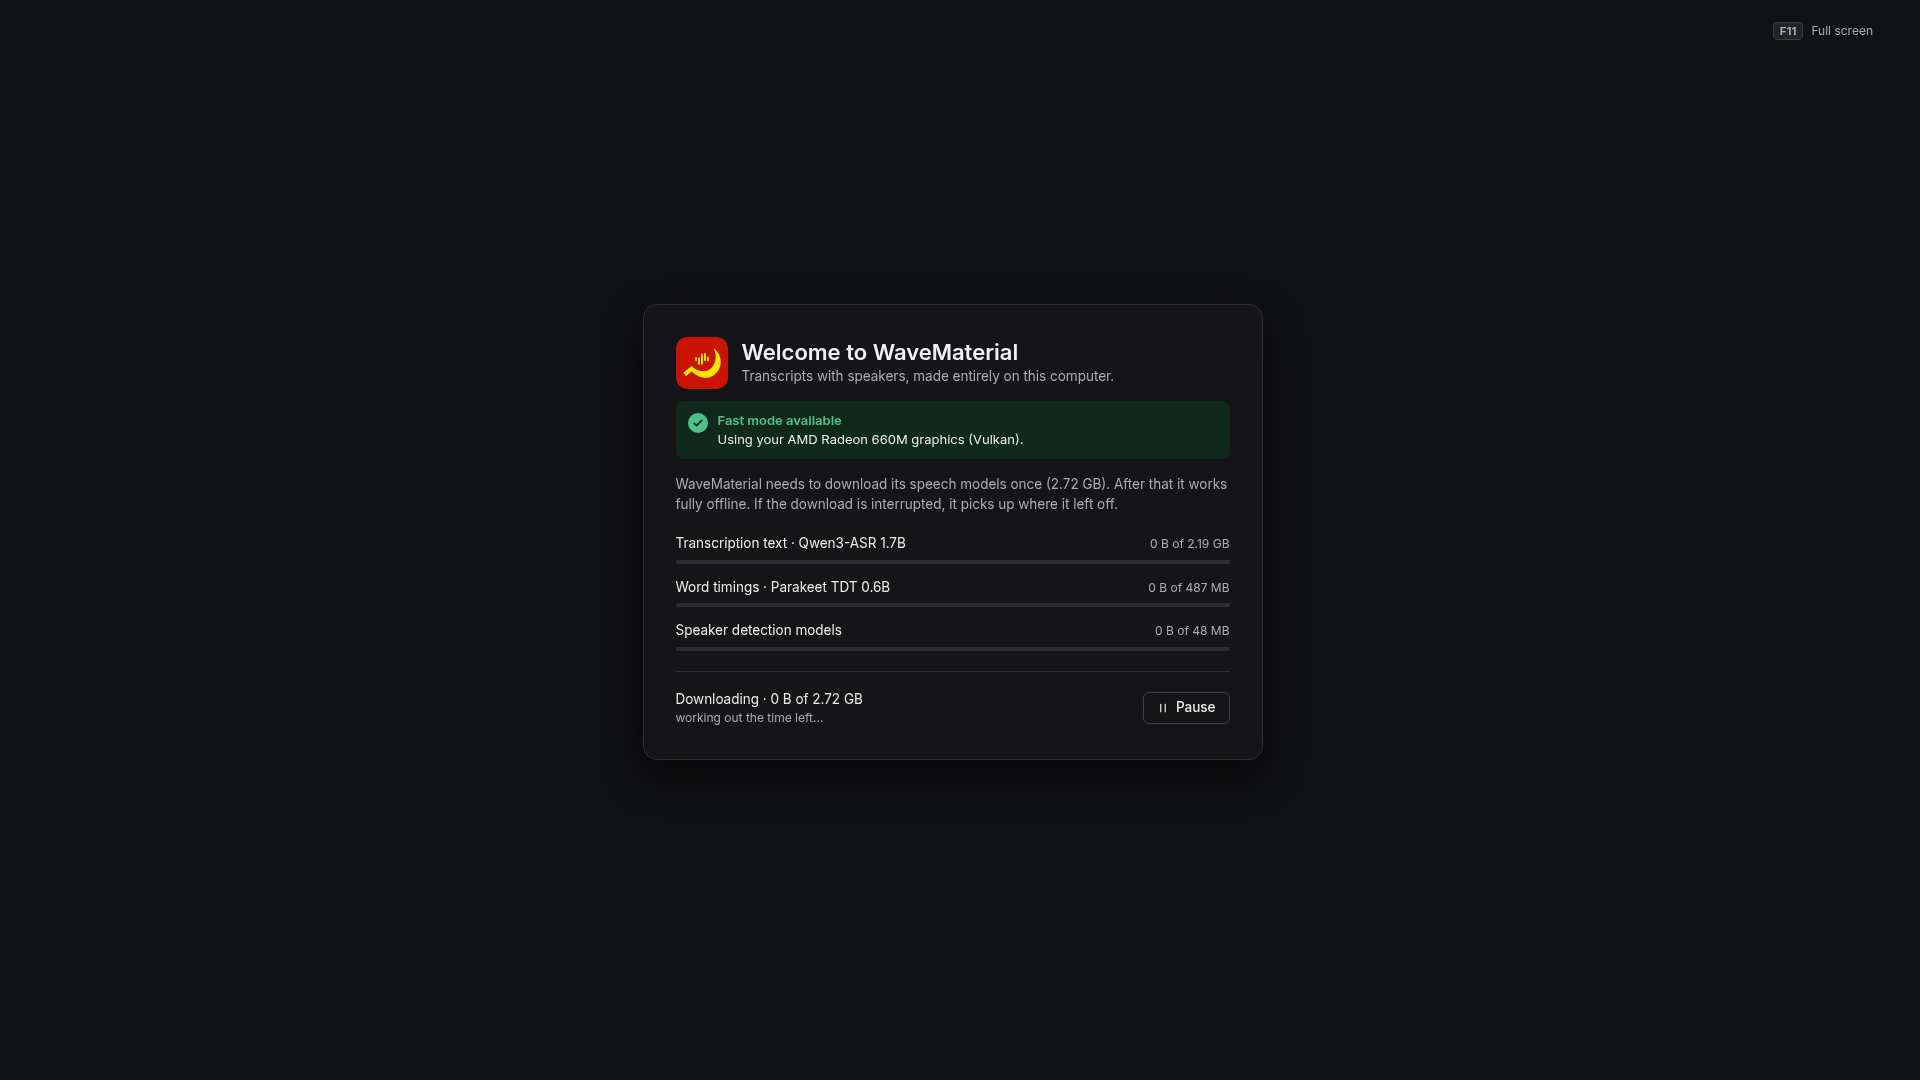
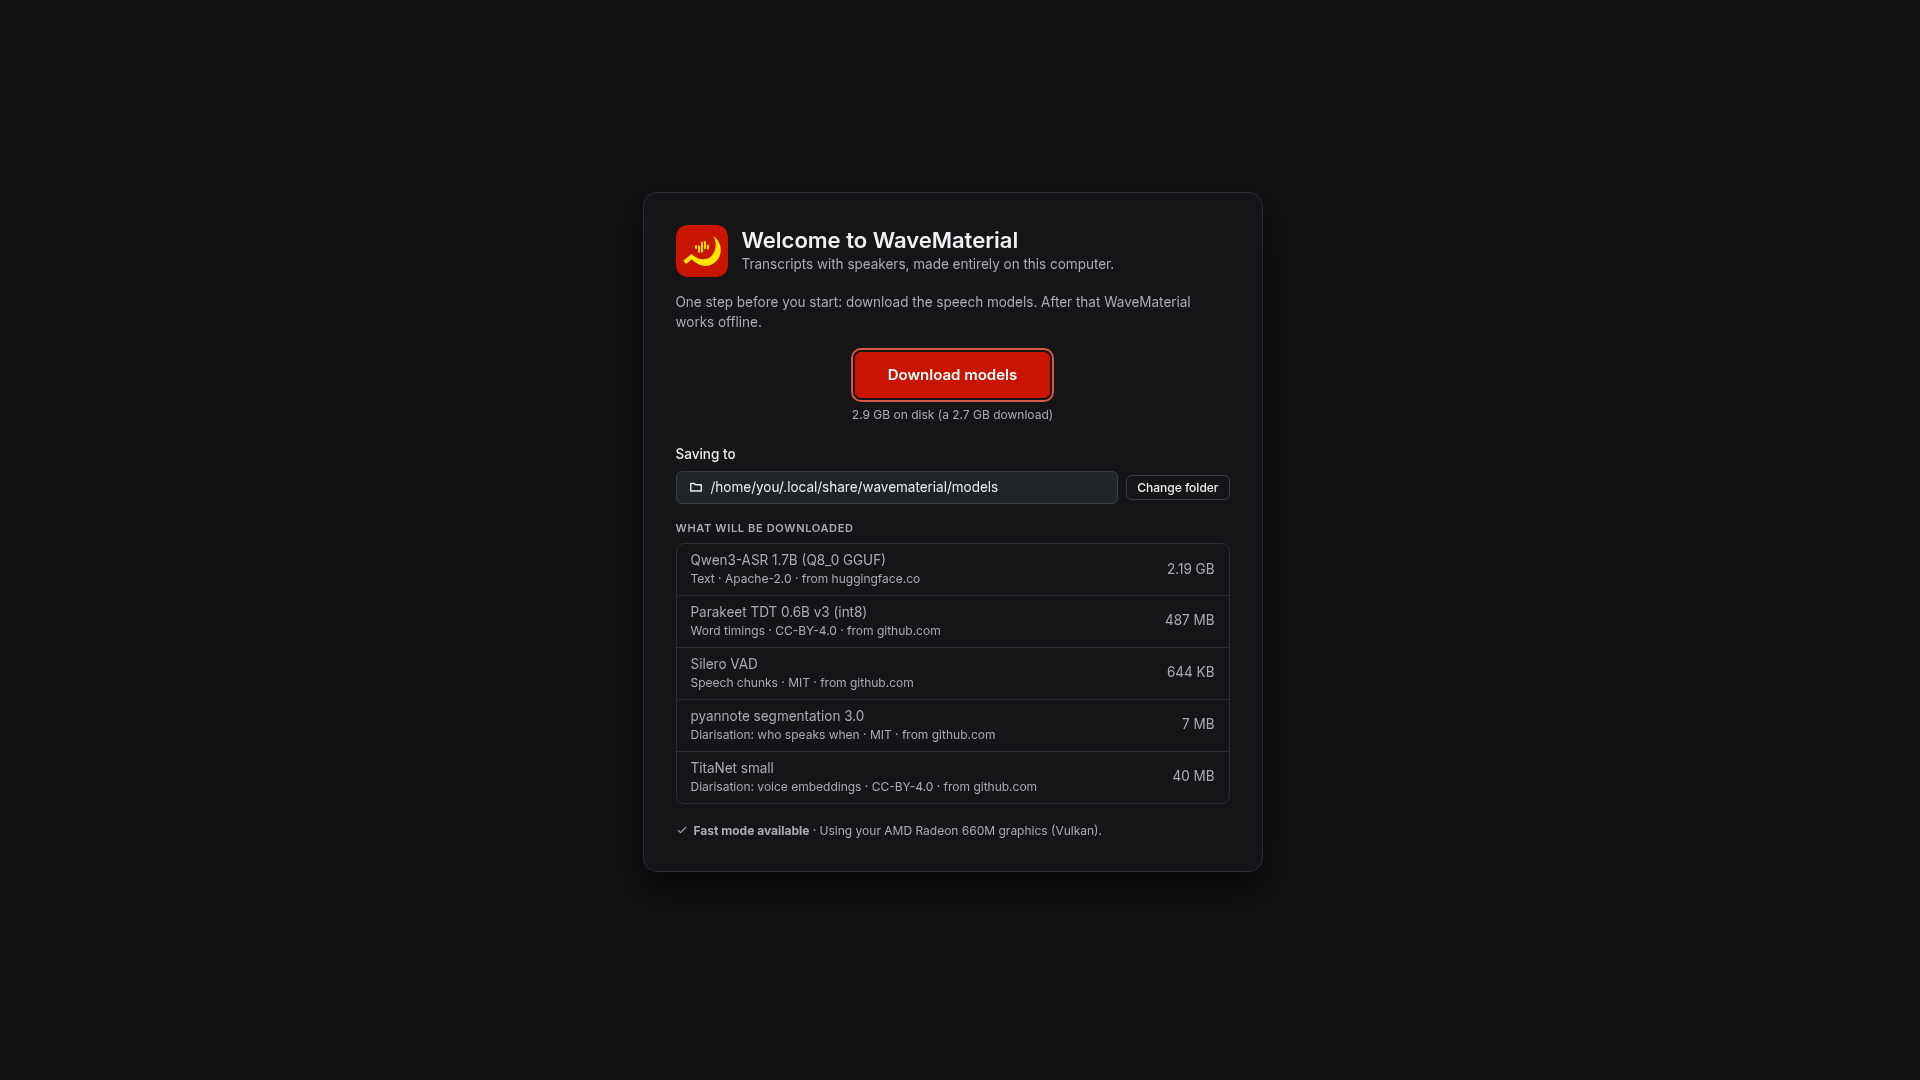
docs: the ask-first setup screen, model folder, and removal; new first-run screenshot

Changed region(s): [[0.3438, 0.1833, 0.6562, 0.7333], [0.375, 0.7639, 0.5625, 0.7944], [0.5938, 0.7028, 0.625, 0.7333]]

diff --git a/USAGE.md b/USAGE.md
@@ -28,12 +28,18 @@ produced from them, mistakes included.
 
 ## First run
 
-The first time it starts, WaveMaterial downloads its speech models (2.7 GB) and says
-whether it can use your graphics card. The download resumes where it left off if it is
-interrupted, and can be paused. After this, nothing else is downloaded: transcription runs
-entirely on your computer.
+The first time it starts, WaveMaterial needs its speech models (2.9 GB on disk, a 2.7 GB
+download). Nothing is downloaded until you click **Download models**. The screen lists each
+model with its licence and source, and says whether WaveMaterial can use your graphics
+card. **Change folder** puts the models somewhere else, for example on a bigger drive; they
+go in a **WaveMaterial models** folder there, and models already in that folder are used
+as they are. WaveMaterial won't save them in a folder it can't write to, or in one synced
+by OneDrive. If the drive doesn't have room (3.7 GB, counting what the download needs
+while it unpacks), it says so instead of starting. The download can be paused, and resumes
+where it left off if it is interrupted. After this, nothing else is downloaded:
+transcription runs entirely on your computer.
 
-![First-run setup downloading the speech models](demo/usage/01-first-run-setup.png)
+![First-run setup asking before it downloads the speech models](demo/usage/01-first-run-setup.png)
 
 ## The landing screen
 
@@ -205,7 +211,8 @@ with its output files.
 
 Where transcription runs (automatic picks the graphics card when it can), processor
 threads, the defaults for new recordings, the speech models with their folder and a
-**Verify all** check, and the once-a-day update check (off unless you turn it on; it only
+**Verify all** check, **Remove downloaded models** (to get the space back; WaveMaterial asks
+for them again next time), and the once-a-day update check (off unless you turn it on; it only
 asks GitHub whether a newer release exists).
 
 ![Settings, top](demo/usage/25-settings.png)

diff --git a/README.md b/README.md
@@ -24,8 +24,8 @@ See [`USAGE.md`](USAGE.md) for a tour of every screen, with screenshots.
 ## Install
 
 Downloads are on the [releases page](https://github.com/s7u512/wavematerial/releases), with
-SHA256 checksums and the source code. Nothing is signed. The first run downloads the speech
-models (2.7 GB); after that WaveMaterial works offline.
+SHA256 checksums and the source code. Nothing is signed. On first run WaveMaterial asks
+before downloading its speech models (2.9 GB on disk); after that it works offline.
 
 - **Windows 10 or 11 (64-bit):** `WaveMaterial-<version>-windows-x86_64-setup.exe`. It
   installs for your user only and needs no administrator rights, but Windows must already

diff --git a/packaging/release-notes.md b/packaging/release-notes.md
@@ -15,7 +15,8 @@ Offline, Vulkan-first transcription with speaker diarisation and transcript edit
 | `{thirdparty}` | The exact sources of the copyleft libraries bundled in the files above (FFmpeg, x264, x265, and others), with a manifest. |
 | `SHA256SUMS` | Checksums of every file. Nothing is signed. |
 
-The speech models (2.7 GB) download on first run; after that WaveMaterial works offline.
+On first run WaveMaterial asks before downloading its speech models (2.9 GB on disk); after
+that it works offline.
 
 ## Tested on
 
